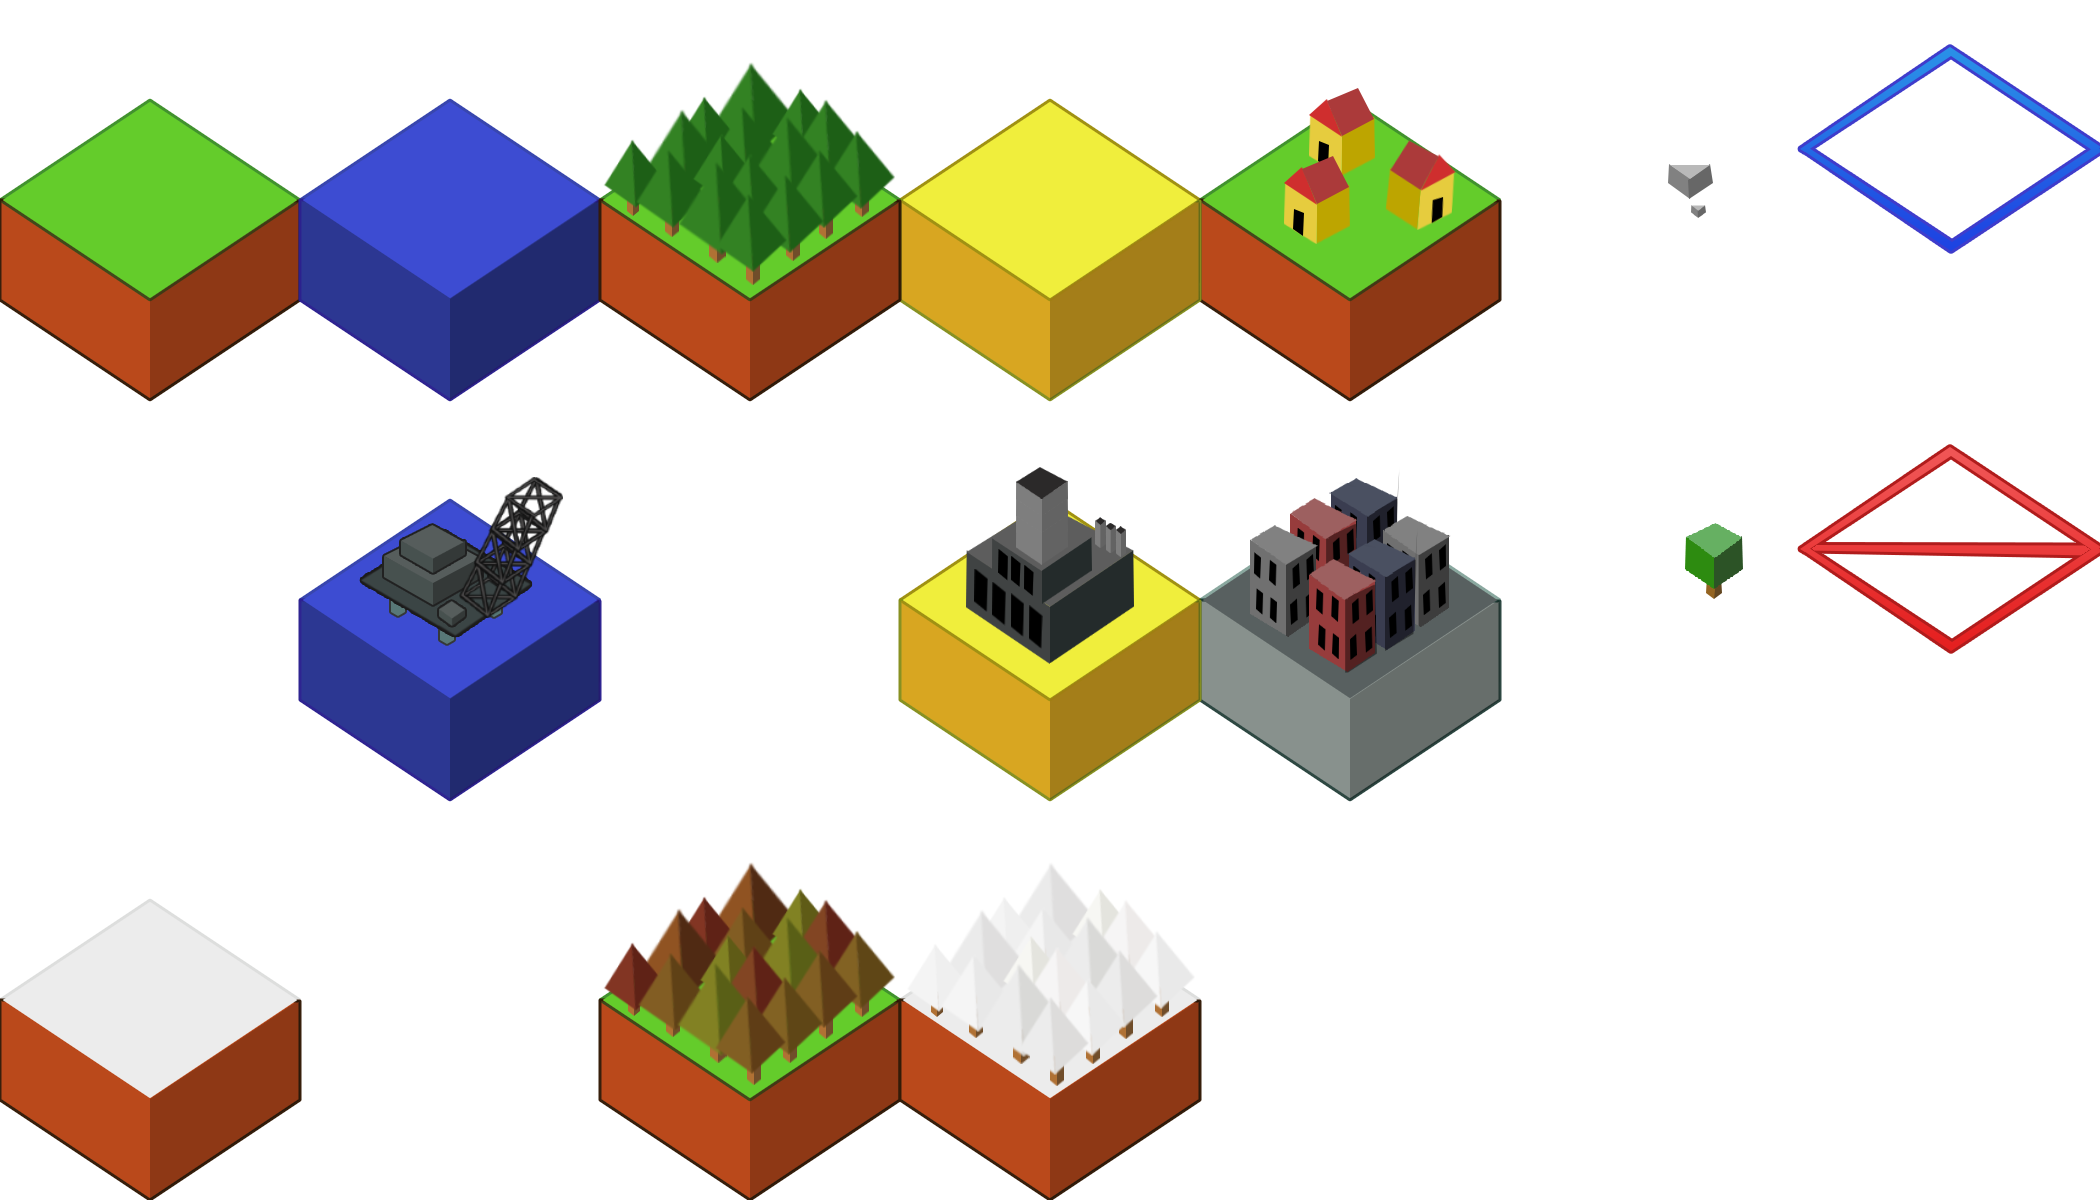
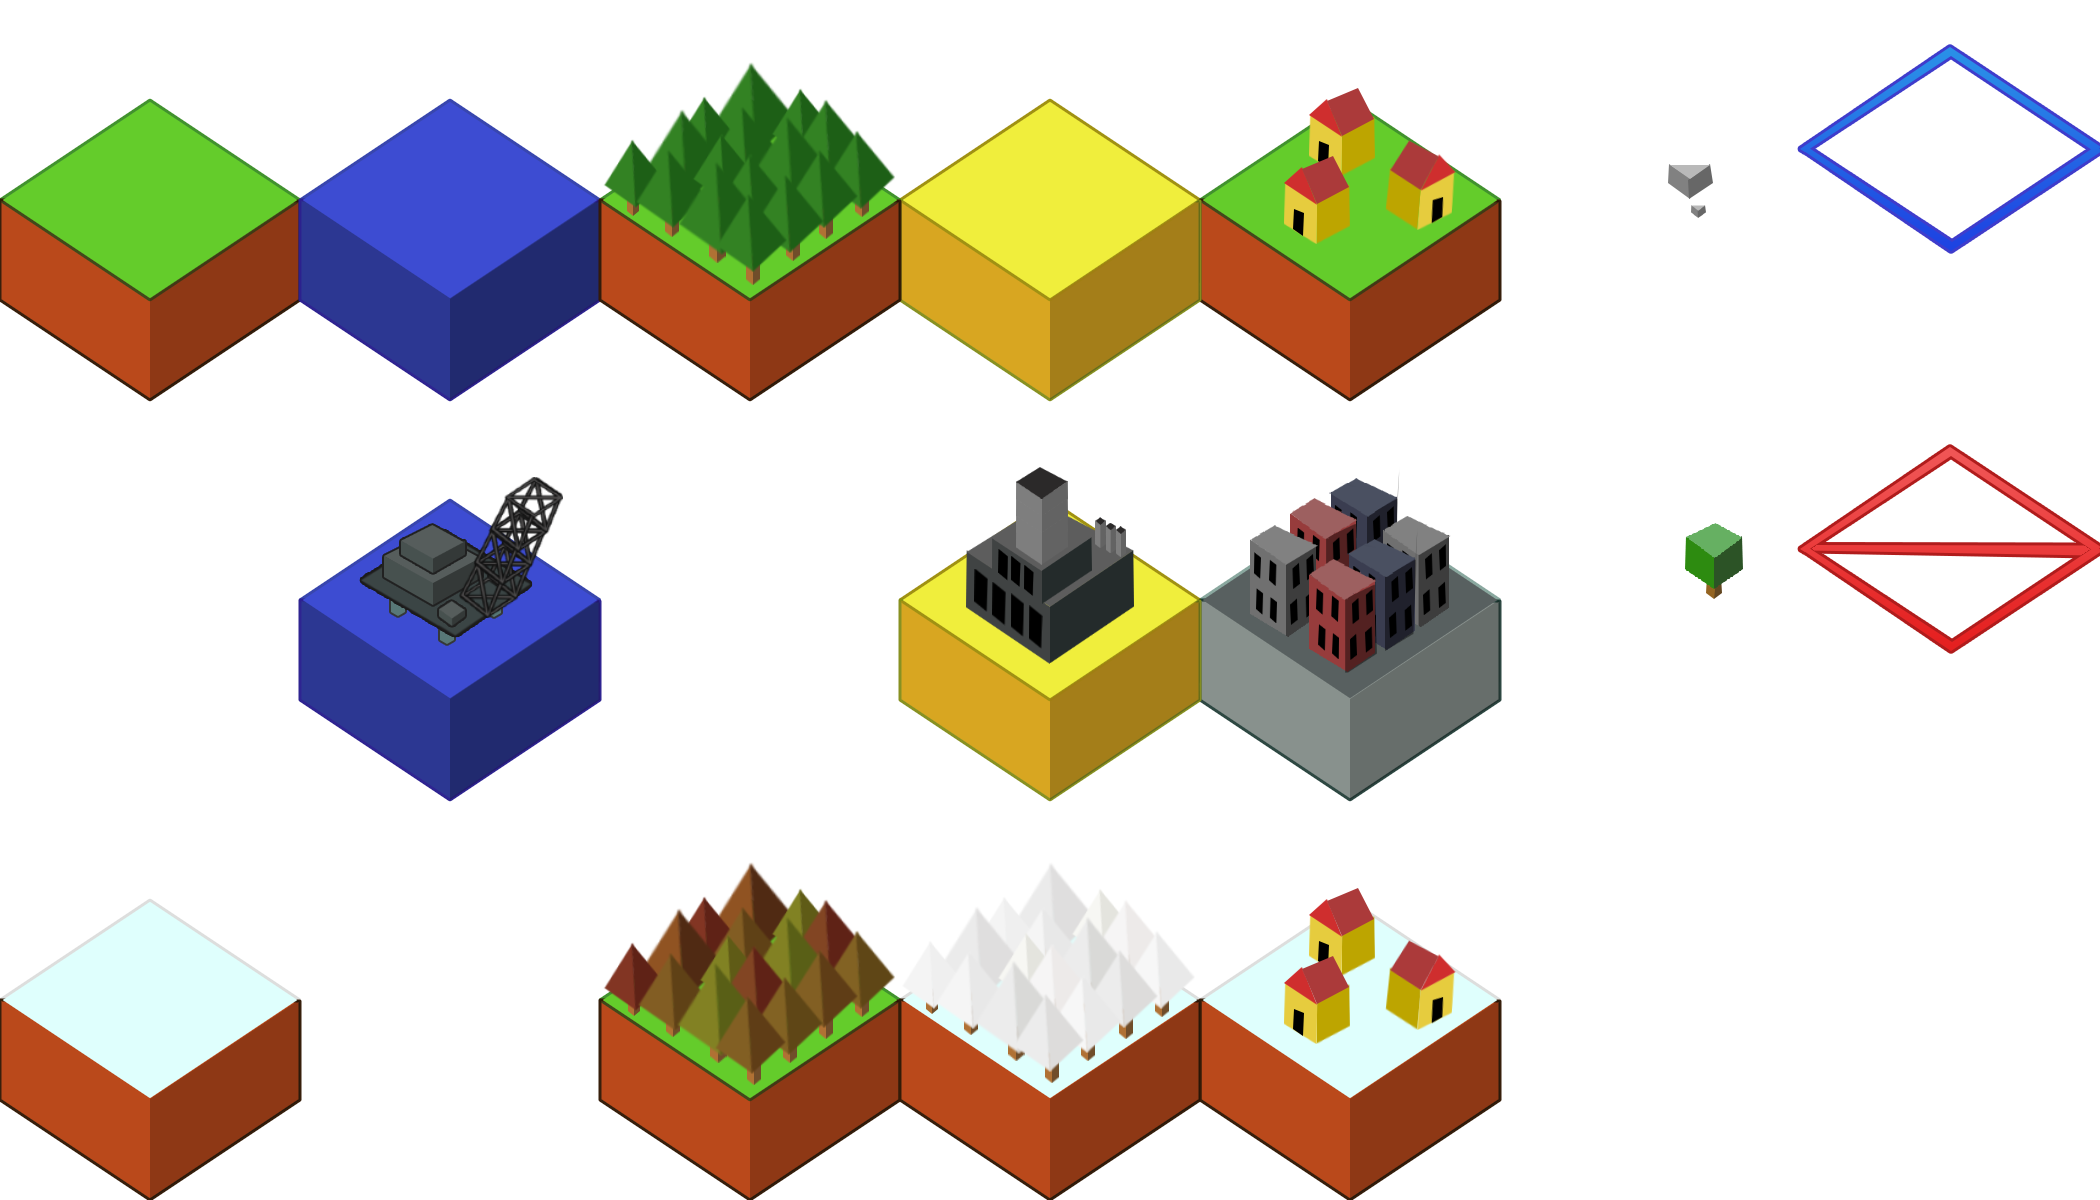
Still fix winter...

Changed region(s): [[0.5571, 0.74, 0.7429, 1.0], [0.4952, 0.8633, 0.5262, 0.8942]]

diff --git a/_games/voxel-biome/tmp.js b/_games/voxel-biome/tmp.js
@@ -11,7 +11,7 @@ var POINTS = 0;
 var POLUTION = 0;
 
 var YEAR = 1;
-var SEASON = "Fall";
+var SEASON = "Spring";
 
 var DEBUG = false;
 
@@ -183,6 +183,12 @@ function Voxel(x, y, width, height, type){
     this.opac2 = 0;
     this.opac3 = 0;
 
+    if(this.type === 3){
+        this.opac1 = 1;
+        this.opac2 = 1;
+        this.opac3 = 1;
+    }
+
     this.draw = function(){
         //DRAW EXAMPLE
         //ctx.fillStyle = "rgb(30, 20, 40)";
@@ -223,7 +229,7 @@ function Voxel(x, y, width, height, type){
 
             if(SEASON === "Spring" || SEASON === "Summer") {
                 if(this.opac1 > 0.05){
-                    this.opac1 -= 0.05;
+                    this.opac1 = 0;
                 }
                 if(this.opac3 > 0.05){
                     this.opac3 -= 0.05;
@@ -262,11 +268,30 @@ function Voxel(x, y, width, height, type){
             }
         }else if(this.type === 4.1) { //DESERT
             ctx.drawImage(voxelsG, 900, 400, 298, 400, this.x - width / 2, this.y - height / 2, width, height);
-        }else if(this.type === 5) { //TOWN/CITY
+        }else if(this.type === 5) { //TOWN
+
             ctx.drawImage(voxelsG, 1200, 400, 298, 400, this.x - width / 2, this.y - height / 2, width, height);
+
         }else if(this.type === 5.1) {
             this.internalTimer = 0; //---------------------------------------- REMEMBER TO MOVE THIS LINE ALONG...
+
+            if(SEASON === "Spring" || SEASON === "Summer" || SEASON === "Fall") {
+                if(this.opac1 > 0.05){
+                    this.opac1 -= 0.05;
+                }
+            }else{
+                if(this.opac1 < 0.95){
+                    this.opac1 += 0.05;
+                }
+            }
+
             ctx.drawImage(voxelsG, 1200, 0, 298, 400, this.x - width / 2, this.y - height / 2, width, height);
+
+            ctx.globalAlpha = this.opac1;
+            ctx.drawImage(voxelsG, 1200, 800, 298, 400, this.x - width / 2, this.y - height / 2, width, height);
+
+            ctx.globalAlpha = 1;
+
         }
 
         if(this.turnToCityTerritory === true) {
